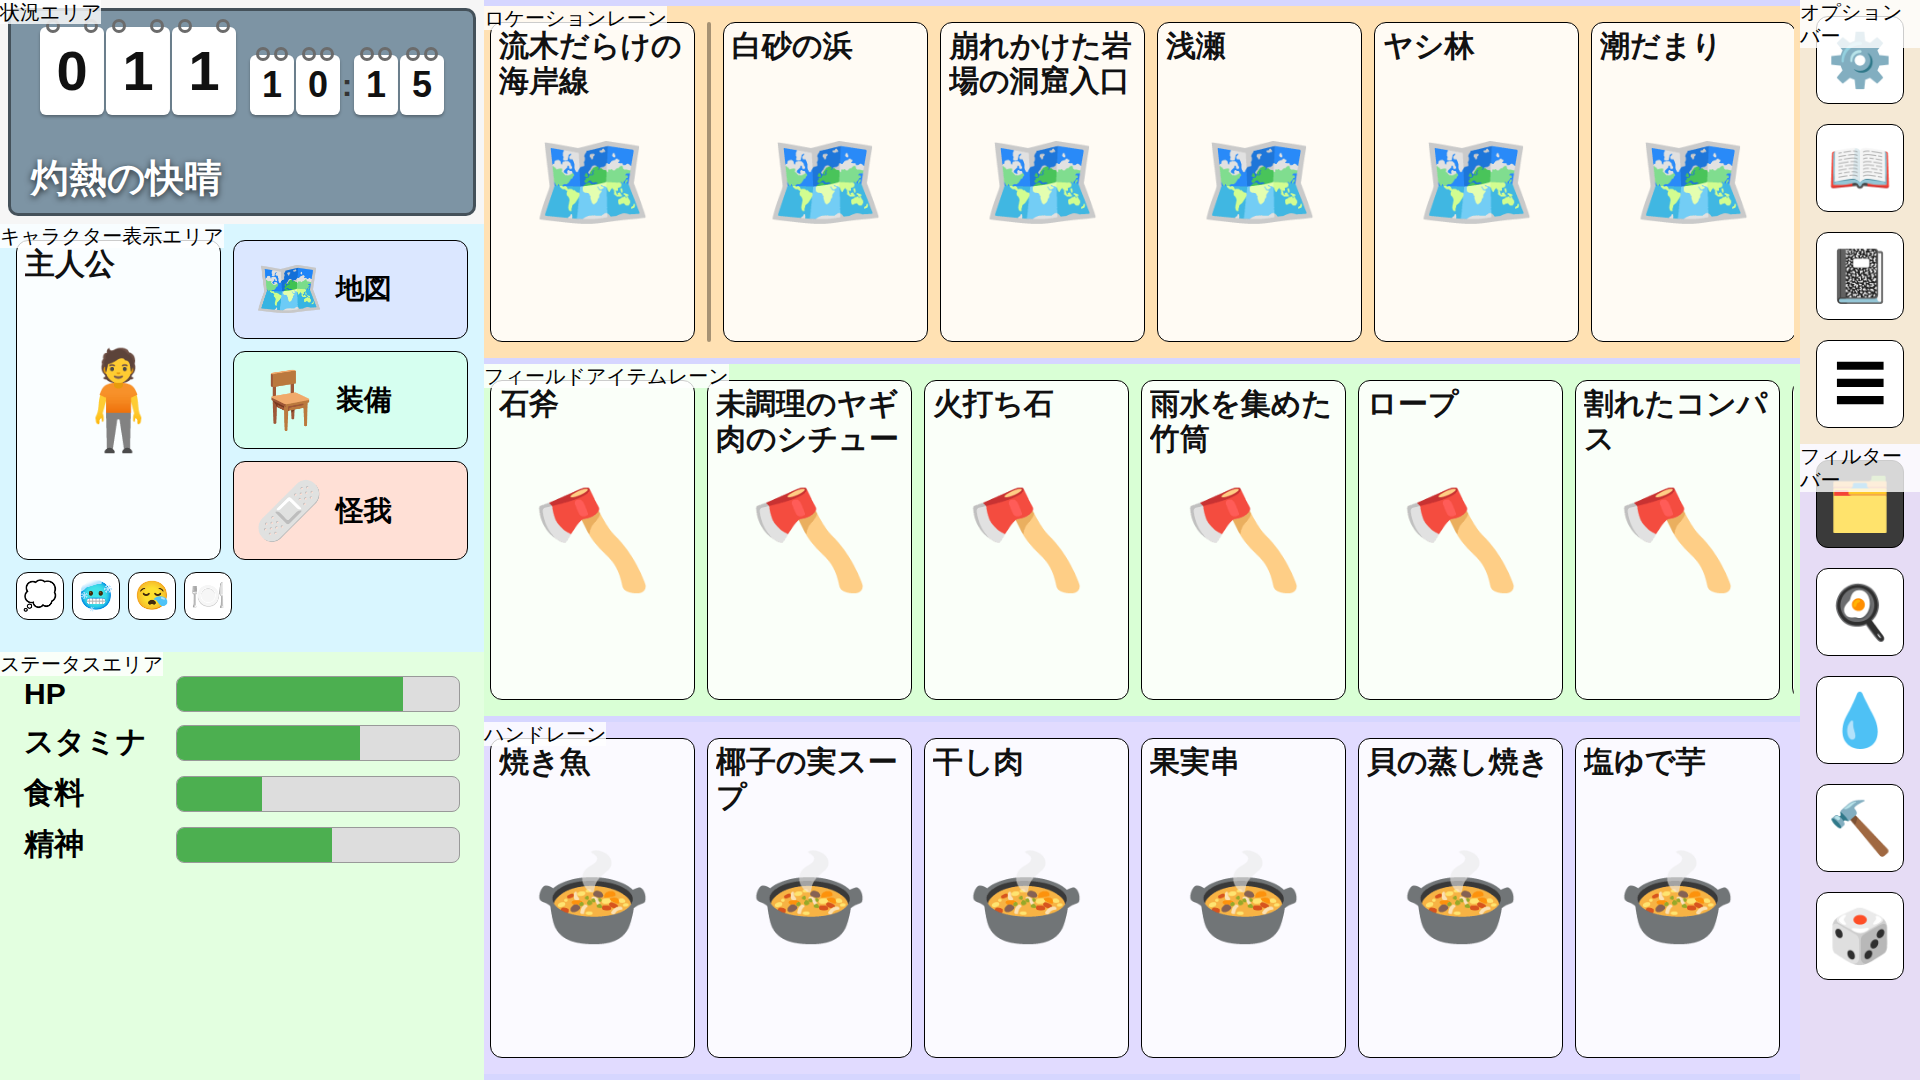
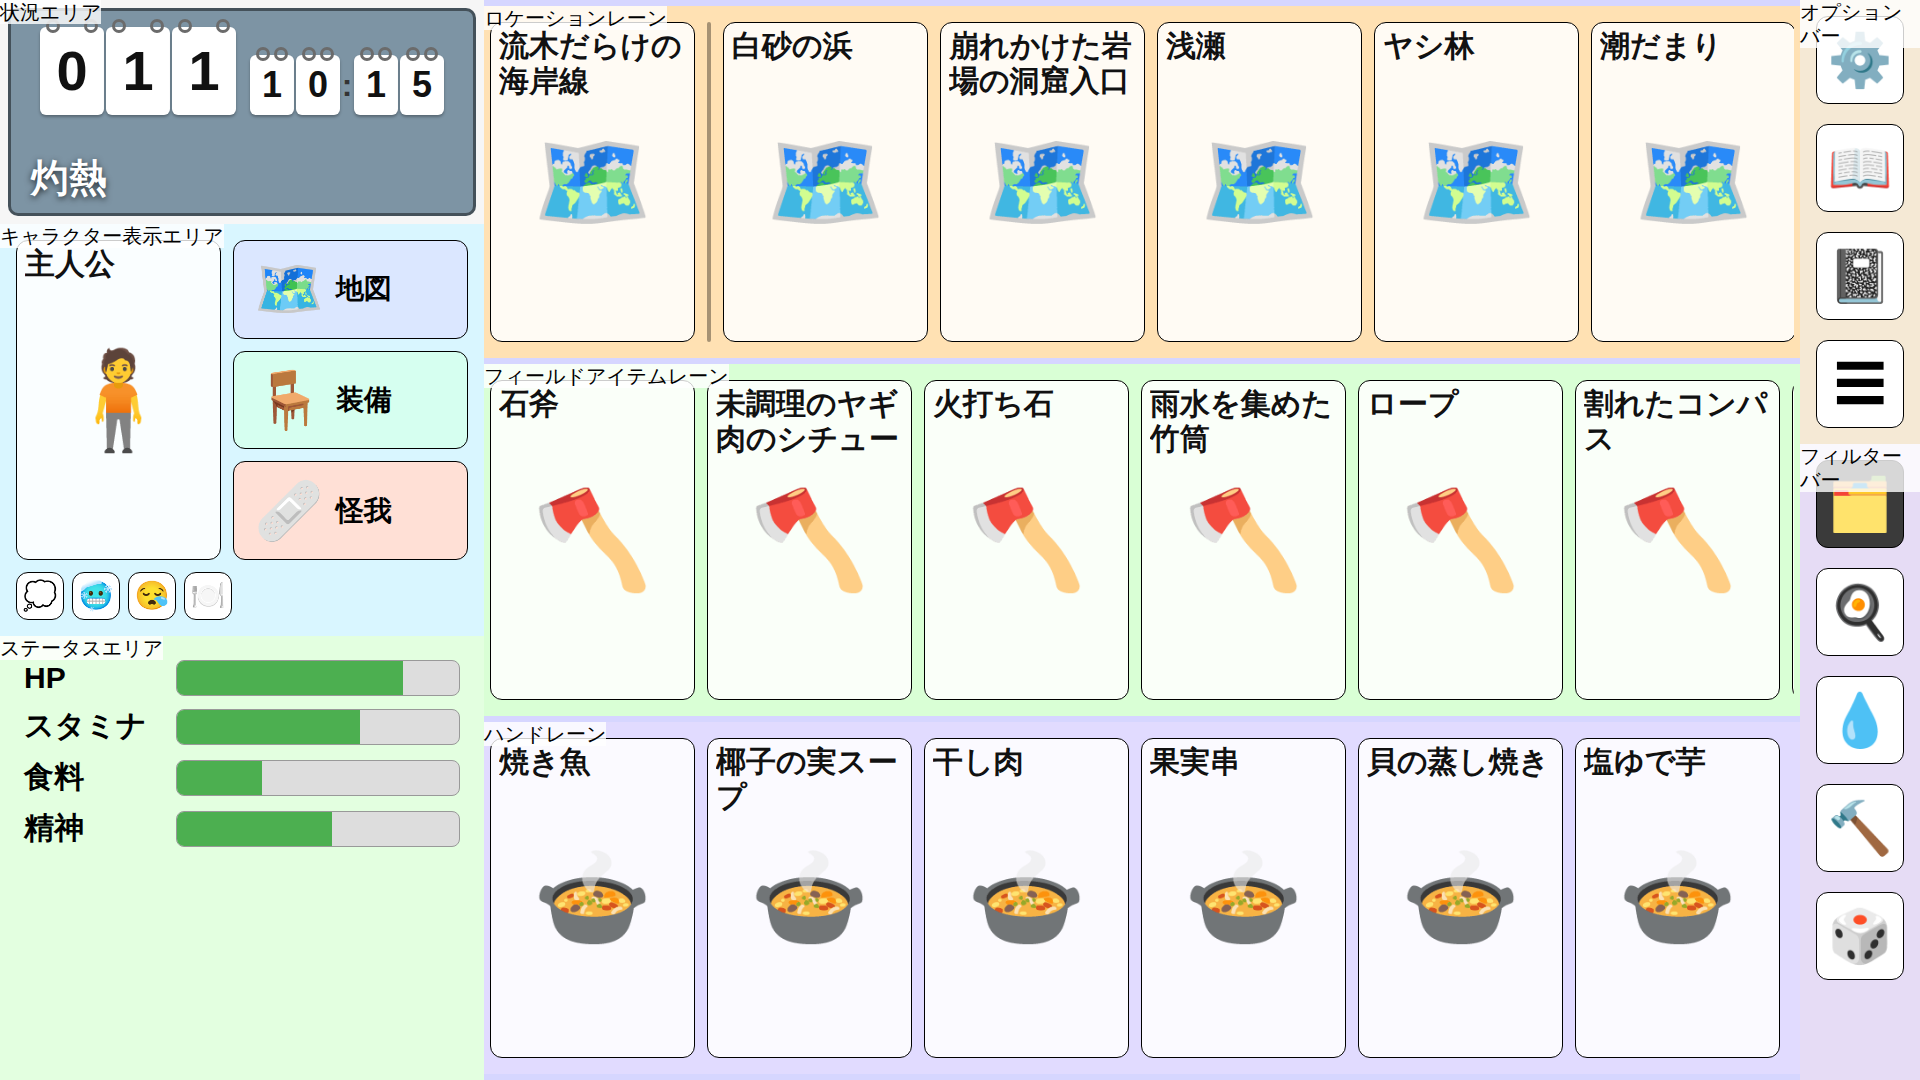
fix(ui): 縦型の下端と空の窓の余白を、背景のページに合わせて取り直す
キャラクター表示エリアの下端は背景のページの下端（表紙の縁）に接するので、紙の余白（32u）
ちょうどだと中身が縁に載って見える。48uまで広げて縁を避ける。横型の縁は右辺にあり、
情報エリアの中身の幅が既に引いているので、下は通常のパディング（16u）に戻す。

空の窓は、オプションバーの下の梁と接する上辺のマージンを8→28uへ広げ、帯に貼り付いて
見えないようにする。日時の上の空きは要らないので、窓の内側の余白を詰めてそのぶんを回した
（状況エリア172→156u、キャラクター表示エリア428→444u。和は600uのまま）。

Claude-Session: https://claude.ai/code/session_01VfZ3r8r58rdBoBP24XgRJt

Changed region(s): [[0.0, 0.5806, 0.25, 0.825], [0.0312, 0.1528, 0.125, 0.1833]]

diff --git a/src/game/layout/PlayScreenLayout.ts b/src/game/layout/PlayScreenLayout.ts
@@ -5,24 +5,36 @@ import type { Rect, ScreenMetrics } from './ScreenMetrics';
 /** オプションバー・フィルターバーの厚み（アイコンボタン88 + 上下パディング16×2）。 */
 const BAR_THICKNESS = SIZE.iconButton + 32;
 
+/** キャラクター表示エリアの内側余白（中身を置くPlaySceneと、高さを決めるここで共有する）。 */
+export const DISPLAY_PADDING = 16;
+
 /**
  * 状況エリア（＝空のパネル）の高さ。日時も天候名もこのパネルの中に載る。
  *
  * 縦型は日時と天候名を左右に並べられるので低く、横型は幅が日時1つ分しかなく天候名を別の段へ
  * 分けるぶんだけ高い。どちらも絵の主題（太陽・雲）を置く右上を空ける寸法。
  */
-const SITUATION_HEIGHT_PORTRAIT = 172;
+const SITUATION_HEIGHT_PORTRAIT = 156;
 const SITUATION_HEIGHT_LANDSCAPE = 224;
 
 /**
- * キャラクター表示エリア高（縦型・横型共通）。パディング16 + ポートレイト320 + ギャップ12 +
- * 条件の行48 + 紙の余白32。地図・装備・怪我はポートレイトの右へ縦積みするので行を足さない。
+ * キャラクター表示エリア高。パディング16 + ポートレイト320 + ギャップ12 + 条件の行48 + 下の余白。
+ * 地図・装備・怪我はポートレイトの右へ縦積みするので行を足さない。
  *
- * 下だけ32uなのは、このエリアの下端がフィールドエリア側の縁（INFORMATION_PAPER_INSET.field）に
- * 当たるため。縦型はこの高さと状況エリアの和が600uちょうどで、9:16の端末でフィールドエリアが
- * 1080uを割らない（＝3レーンが収まる）上限。
+ * 下の余白だけが向きで違う。縦型はこのエリアの下端が背景のページの下端（表紙の縁）に当たるので、
+ * 縁に載らないよう紙の余白（INFORMATION_PAPER_INSET.field）より広く取る。横型の縁は右辺にあり、
+ * 情報エリアの中身の幅が既に引いているので、下は通常のパディングでよい。
+ *
+ * 縦型はこの高さと状況エリアの和が600uちょうどで、9:16の端末でフィールドエリアが1080uを割らない
+ * （＝3レーンが収まる）上限。
  */
-const CHARACTER_DISPLAY_HEIGHT = SIZE.cardHeight + SIZE.gap + SIZE.conditionButton + 48;
+const CHARACTER_DISPLAY_BOTTOM_PADDING_PORTRAIT = 48;
+const CHARACTER_DISPLAY_HEIGHT_PORTRAIT = characterDisplayHeight(CHARACTER_DISPLAY_BOTTOM_PADDING_PORTRAIT);
+const CHARACTER_DISPLAY_HEIGHT_LANDSCAPE = characterDisplayHeight(DISPLAY_PADDING);
+
+function characterDisplayHeight(bottomPadding: number): number {
+  return DISPLAY_PADDING + SIZE.cardHeight + SIZE.gap + SIZE.conditionButton + bottomPadding;
+}
 
 /** 縦型のキャラクター表示エリア幅。ポートレイト205 + 地図・装備・怪我の列 + ギャップ・パディング。 */
 const CHARACTER_DISPLAY_WIDTH_PORTRAIT = 460;
@@ -40,7 +52,7 @@ const SIDEBAR_WIDTH_LANDSCAPE = 120;
 const OPTIONS_HEIGHT_LANDSCAPE = SIZE.iconButton * 4 + SIZE.barGap * 3 + 32;
 
 /** 縦型でフィールドエリアを縮めてでも確保するダッシュボード列の最小高（状況エリア + キャラクター表示エリアの内容量）。 */
-const DASHBOARD_MIN_HEIGHT_PORTRAIT = SITUATION_HEIGHT_PORTRAIT + CHARACTER_DISPLAY_HEIGHT;
+const DASHBOARD_MIN_HEIGHT_PORTRAIT = SITUATION_HEIGHT_PORTRAIT + CHARACTER_DISPLAY_HEIGHT_PORTRAIT;
 
 /**
  * プレイ中の画面（ScreenLayout.md）の各エリアの位置・大きさ。
@@ -60,7 +72,7 @@ export class PlayScreenLayout {
   readonly statusArea: Rect;
 
   /**
-   * 情報エリア。フィールドエリアの左（横型）・上（縦型）にまとめて置かれる、状況エリア・天候の帯・
+   * 情報エリア。フィールドエリアの左（横型）・上（縦型）にまとめて置かれる、状況エリアと
    * キャラクターエリアの全体。1枚の紙の背景として塗るための矩形なので、内訳の各エリアとは別に持つ。
    */
   readonly informationArea: Rect;
@@ -133,7 +145,7 @@ export class PlayScreenLayout {
       this.situationArea = { x: content.x, y: content.y, width: content.width, height: situationHeight };
 
       const characterAreaY = content.y + situationHeight;
-      const displayHeight = u(CHARACTER_DISPLAY_HEIGHT);
+      const displayHeight = u(CHARACTER_DISPLAY_HEIGHT_LANDSCAPE);
       this.characterDisplay = {
         x: content.x,
         y: characterAreaY,
@@ -158,7 +170,7 @@ export class PlayScreenLayout {
       // オプションバーの上の余白（画面外として塗り潰す）にする。上端は指が届きにくく、使い切る価値が薄いため。
       const available = Math.max(0, height - barHeight * 2 - fieldHeight);
       const situationHeight = Math.min(u(SITUATION_HEIGHT_PORTRAIT), available);
-      const displayHeight = Math.min(u(CHARACTER_DISPLAY_HEIGHT), available - situationHeight);
+      const displayHeight = Math.min(u(CHARACTER_DISPLAY_HEIGHT_PORTRAIT), available - situationHeight);
       const top = available - situationHeight - displayHeight;
 
       this.fieldArea = { x: 0, y: height - barHeight - fieldHeight, width, height: fieldHeight };

diff --git a/tests/game/playScreenLayout.test.ts b/tests/game/playScreenLayout.test.ts
@@ -22,9 +22,9 @@ describe('PlayScreenLayout(ScreenLayout.md エリア構成)', () => {
     expect(layout.optionsBar).toEqual({ x: 0, y: 0, width: 1080, height: 120 });
     expect(layout.fieldArea).toEqual({ x: 0, y: 720, width: 1080, height: 1080 });
     expect(layout.filterBar).toEqual({ x: 0, y: 1800, width: 1080, height: 120 });
-    expect(layout.situationArea.height).toBe(172);
-    // キャラクターエリア（キャラクター表示＋ステータス）は1032×428。
-    expect(layout.characterDisplay.height).toBe(428);
+    expect(layout.situationArea.height).toBe(156);
+    // キャラクターエリア（キャラクター表示＋ステータス）は1032×444。
+    expect(layout.characterDisplay.height).toBe(444);
     expect(layout.characterDisplay.width).toBe(460);
     expect(layout.statusArea.width).toBe(572);
   });
@@ -35,7 +35,7 @@ describe('PlayScreenLayout(ScreenLayout.md エリア構成)', () => {
     expect(layout.situationArea.y).toBe(layout.informationContent.y);
     expect(layout.characterDisplay.y).toBe(layout.situationArea.y + layout.situationArea.height);
     expect(layout.statusArea.y).toBe(layout.characterDisplay.y);
-    // 下端はフィールドエリアの手前。紙の余白32uはキャラクター表示エリアの内側が受け持つ。
+    // 下端はフィールドエリアの手前。表紙の縁を避ける余白はキャラクター表示エリアの内側が受け持つ。
     expect(layout.characterDisplay.y + layout.characterDisplay.height).toBe(layout.fieldArea.y);
   });
 
@@ -46,8 +46,8 @@ describe('PlayScreenLayout(ScreenLayout.md エリア構成)', () => {
     expect(layout.optionsBar).toEqual({ x: 1800, y: 0, width: 120, height: 444 });
     expect(layout.filterBar).toEqual({ x: 1800, y: 444, width: 120, height: 636 });
     expect(layout.situationArea).toEqual({ x: 0, y: 24, width: 446, height: 224 });
-    expect(layout.characterDisplay).toEqual({ x: 0, y: 248, width: 446, height: 428 });
-    expect(layout.statusArea).toEqual({ x: 0, y: 676, width: 446, height: 380 });
+    expect(layout.characterDisplay).toEqual({ x: 0, y: 248, width: 446, height: 412 });
+    expect(layout.statusArea).toEqual({ x: 0, y: 660, width: 446, height: 396 });
   });
 
   it('3レーンは向きによらずフィールドエリアを外周マージン込みで埋める', () => {
@@ -118,8 +118,8 @@ describe('PlayScreenLayout(ScreenLayout.md エリア構成)', () => {
   it('極端に縦長の縦型はキャラクターエリアを引き伸ばさず、オプションバーの上を余らせる', () => {
     const layout = new PlayScreenLayout(new ScreenMetrics(1080, 2400));
 
-    expect(layout.characterDisplay.height, '内容量ぶんのまま').toBe(428);
-    expect(layout.situationArea.height).toBe(172);
+    expect(layout.characterDisplay.height, '内容量ぶんのまま').toBe(444);
+    expect(layout.situationArea.height).toBe(156);
     expect(layout.optionsBar.y, '余りはオプションバーの上へ').toBe(480);
     expect(layout.informationArea.y, '情報エリアはオプションバーの下から').toBe(600);
     // 下から順に、フィルターバー・フィールドエリア・情報エリアが隙間なく積まれている。

diff --git a/docs/ui/ScreenLayout_Mock.html b/docs/ui/ScreenLayout_Mock.html
@@ -154,8 +154,9 @@
       grid-template-columns: var(--portrait-w) 1fr;
       grid-template-rows: var(--portrait-h) auto;
       gap: var(--gap);
-      /* 下だけ広いのは、この辺が背景のページのフィールドエリア側の縁に当たるため */
-      padding: calc(16 * var(--u)) calc(16 * var(--u)) calc(32 * var(--u));
+      /* 下だけ広いのは、この辺が背景のページの下端（表紙の縁）に当たるため。縁ぎりぎりに置くと
+         中身が縁に載って見えるので、紙の余白（32u）より広く取る（横型メディアクエリで戻す） */
+      padding: calc(16 * var(--u)) calc(16 * var(--u)) calc(48 * var(--u));
       background: #d9f6ff;
     }
 
@@ -272,11 +273,13 @@
 
     /* ---- 状況エリア（空を映す1枚の窓。日時と天候名がその上に載る） ---- */
 
+    /* 上だけ広いのは、オプションバーの下の梁と接する辺だから。窓を梁から離さないと帯に
+       貼り付いて見える（日時の上の空きは要らないので、そのぶん窓を低くして回している） */
     .situation-area {
       position: relative;
       flex-shrink: 0;
-      height: calc(172 * var(--u));
-      padding: calc(8 * var(--u)) calc(16 * var(--u));
+      height: calc(156 * var(--u));
+      padding: calc(28 * var(--u)) calc(16 * var(--u)) calc(8 * var(--u));
     }
 
     /* 天気ごとの絵を敷く窓。絵だけでは晴天どうしを区別できないため、名前はラベルが受け持つ。
@@ -294,7 +297,7 @@
       align-items: flex-end;
       justify-content: space-between;
       gap: calc(24 * var(--u));
-      padding: calc(20 * var(--u)) calc(24 * var(--u));
+      padding: calc(16 * var(--u)) calc(24 * var(--u));
     }
 
     .weather-name {
@@ -499,6 +502,9 @@
         padding: calc(8 * var(--u));
       }
 
+      /* 横型の縁は右辺にあり、ダッシュボード列の幅が既に引いている。下は通常のパディングでよい */
+      .character-display { padding-bottom: calc(16 * var(--u)); }
+
       .weather-panel {
         flex-direction: column;
         align-items: stretch;
@@ -565,7 +571,7 @@
               <span class="flip-digit">5</span>
             </span>
           </button>
-          <div class="weather-name">灼熱の快晴</div>
+          <div class="weather-name">灼熱</div>
         </div>
       </section>
       <section class="character-area">

diff --git a/src/game/ui/WeatherPanel.ts b/src/game/ui/WeatherPanel.ts
@@ -6,12 +6,17 @@ import { COLOR } from './theme';
 import { drawBox } from './shapes';
 import { weatherTexture } from './weatherArt';
 
-/** 状況エリアのうち、空の絵を敷く範囲までの余白（紙に貼った窓に見えるよう、四辺を少し残す）。 */
-const PANEL_INSET_PORTRAIT = { x: 16, y: 8 };
-const PANEL_INSET_LANDSCAPE = { x: 8, y: 8 };
+/**
+ * 状況エリアのうち、空の絵を敷く範囲までの余白（紙に貼った窓に見えるよう、四辺を少し残す）。
+ *
+ * 縦型の上だけが広い。ここはオプションバーの下の梁と接する辺で、窓を梁から離さないと
+ * 帯に貼り付いて見えるため。
+ */
+const PANEL_INSET_PORTRAIT = { x: 16, top: 28, bottom: 8 };
+const PANEL_INSET_LANDSCAPE = { x: 8, top: 8, bottom: 8 };
 
 /** 窓の内側の余白。日時と天候名はこの内側に収める。 */
-const CONTENT_PADDING_PORTRAIT = { x: 24, y: 20 };
+const CONTENT_PADDING_PORTRAIT = { x: 24, y: 16 };
 const CONTENT_PADDING_LANDSCAPE = { x: 20, y: 16 };
 
 /** 窓の角の丸めと縁の太さ。 */
@@ -44,9 +49,9 @@ export class WeatherPanel extends Phaser.GameObjects.Container {
     const inset = metrics.isLandscape ? PANEL_INSET_LANDSCAPE : PANEL_INSET_PORTRAIT;
     const panel: Rect = {
       x: area.x + metrics.px(inset.x),
-      y: area.y + metrics.px(inset.y),
+      y: area.y + metrics.px(inset.top),
       width: Math.max(0, area.width - metrics.px(inset.x) * 2),
-      height: Math.max(0, area.height - metrics.px(inset.y) * 2),
+      height: Math.max(0, area.height - metrics.px(inset.top + inset.bottom)),
     };
 
     this.addSky(scene, metrics, panel, content.weather);

diff --git a/src/game/PlayScene.ts b/src/game/PlayScene.ts
@@ -1,6 +1,6 @@
 import type Phaser from 'phaser';
 import type { Rect } from './layout/ScreenMetrics';
-import { PlayScreenLayout } from './layout/PlayScreenLayout';
+import { DISPLAY_PADDING, PlayScreenLayout } from './layout/PlayScreenLayout';
 import { ResponsiveScene } from './ResponsiveScene';
 import { LOCALIZATION_KEY, WORLD_CODEX_KEY } from './BootScene';
 import type { WorldCodex } from '../domain/defs/WorldCodex';
@@ -64,8 +64,7 @@ const BAR_PADDING = 16;
 const OPTIONS_BAR_PADDING_X = 24;
 const FILTER_BAR_PADDING_X = 20;
 
-/** キャラクター表示エリア・ステータスエリアの内側パディング。 */
-const DISPLAY_PADDING = 16;
+/** ステータスエリアの内側パディング（キャラクター表示エリア側はDISPLAY_PADDING）。 */
 const STATUS_PADDING = 24;
 
 /**
